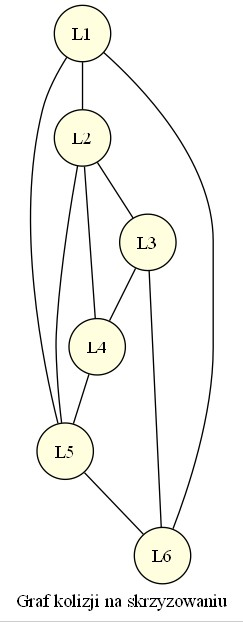
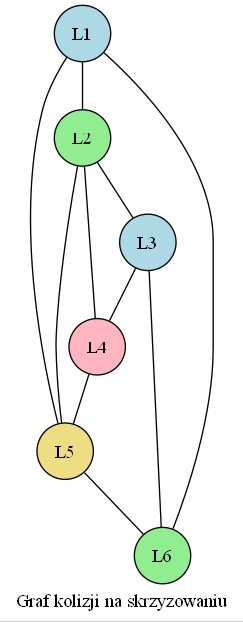
Update benchmark data and improve graph representation
- Adjusted benchmark timings in benchmark_graph.txt for accuracy.
- Enhanced graph representation in graf_cpp.dot by adding self-loops.
- Updated main.cpp to reflect changes in graph structure and added comments for clarity.

diff --git a/Projekt_5_D/main.cpp b/Projekt_5_D/main.cpp
@@ -2,32 +2,110 @@
 #include <vector>
 #include <fstream>
 #include <string>
+#include <algorithm>
 
 class TrafficGraph {
 private:
     int n;
     std::vector<std::vector<int>> adjMatrix;
+    std::vector<int> colors; // kolor/faza dla każdego wierzchołka
 
 public:
-    TrafficGraph(int size) : n(size), adjMatrix(size, std::vector<int>(size, 0)) {}
+    TrafficGraph(int size)
+        : n(size), adjMatrix(size, std::vector<int>(size, 0)), colors(size, -1) {}
 
     // Dodajemy krawędź nieskierowaną (kolizję)
     void addCollision(int u, int v) {
         if (u >= 1 && u <= n && v >= 1 && v <= n) {
-            adjMatrix[u-1][v-1] = 1;
-            adjMatrix[v-1][u-1] = 1;
+            adjMatrix[u - 1][v - 1] = 1;
+            adjMatrix[v - 1][u - 1] = 1;
         }
+    }
+
+    // Zachłanne kolorowanie grafu
+    void colorGraph() {
+        colors.assign(n, -1); //ustawia wszystkie kolory na -1
+        colors[0] = 0; // pierwszy wierzchołek dostaje pierwszy kolor
+
+        //Przygotowanie tablicy dostępnych kolorów
+        std::vector<bool> available(n, true);
+
+        //Iteruje po każdym wierzchołku od 1 do n-1
+        for (int u = 1; u < n; ++u) {
+            //Resetowanie dostępnych kolorów
+            std::fill(available.begin(), available.end(), true);
+
+            //Przechodzi po wszystkich wierzchołkach v
+            for (int v = 0; v < n; ++v) {
+                //czy sa sasiadami i istnieja
+                if (adjMatrix[u][v] == 1 && colors[v] != -1) {
+                    //ten kolor nie jest dostepny
+                    available[colors[v]] = false;
+                }
+            }
+            //szukamy 1 dostepnego koloru
+            int cr;
+            for (cr = 0; cr < n; ++cr) {
+                if (available[cr]) {
+                    break;
+                }
+            }
+
+            colors[u] = cr;
+        }
+    }
+
+    int getNumberOfPhases() const {
+        int maxColor = -1;
+        //Pętla szuka maksymalnego koloru w tablicy colors
+        for (int c : colors) {
+            if (c > maxColor) {
+                maxColor = c;
+            }
+        }
+        //liczba faz = l. kolorow +1
+        return maxColor + 1;
+    }
+
+    void printPhaseAssignments() const {
+        std::cout << "Przypisanie trajektorii do faz:\n";
+        for (int c = 0; c < getNumberOfPhases(); ++c) {
+            std::cout << "Faza " << (c + 1) << ": ";
+            for (int i = 0; i < n; ++i) {
+                if (colors[i] == c) {
+                    std::cout << "L" << (i + 1) << " ";
+                }
+            }
+            std::cout << "\n";
+        }
+    }
+
+    std::string colorName(int color) const {
+        static const std::vector<std::string> names = {
+            "lightblue", "lightgreen", "lightpink", "lightgoldenrod", "orange",
+            "violet", "cyan", "gray", "yellow", "salmon"
+        };
+        if (color >= 0 && color < (int)names.size()) {
+            return names[color];
+        }
+        return "white";
     }
 
     void generateDotFile(const std::string& filename) {
         std::ofstream outFile(filename);
         if (!outFile.is_open()) return;
 
-        // Używamy 'graph' zamiast 'digraph' dla grafu nieskierowanego
         outFile << "graph TrafficLight {\n";
-        outFile << "    node [shape=circle, style=filled, fillcolor=lightyellow];\n";
+        outFile << "    node [shape=circle, style=filled];\n";
         outFile << "    label=\"Graf kolizji na skrzyzowaniu\";\n";
 
+        // Wierzchołki z kolorami
+        for (int i = 0; i < n; ++i) {
+            outFile << "    L" << (i + 1)
+                    << " [fillcolor=\"" << colorName(colors[i]) << "\"];\n";
+        }
+
+        // Krawędzie kolizji
         for (int i = 0; i < n; ++i) {
             for (int j = i + 1; j < n; ++j) {
                 if (adjMatrix[i][j] == 1) {
@@ -35,6 +113,7 @@ public:
                 }
             }
         }
+
         outFile << "}\n";
         outFile.close();
         std::cout << "Wygenerowano plik: " << filename << std::endl;
@@ -44,13 +123,28 @@ public:
 int main() {
     TrafficGraph g(6); // 6 pasów ruchu
 
-    // Definiujemy kolizje zgodnie z analizą rysunku:
-    g.addCollision(1, 2); g.addCollision(1, 5); g.addCollision(1, 6);
-    g.addCollision(2, 3); g.addCollision(2, 4); g.addCollision(2, 5);
-    g.addCollision(3, 4); g.addCollision(3, 6);
+    // Kolizje odczytane z rysunku skrzyżowania
+    g.addCollision(1, 2);
+    g.addCollision(1, 5);
+    g.addCollision(1, 6);
+    g.addCollision(2, 3);
+    g.addCollision(2, 4);
+    g.addCollision(2, 5);
+    g.addCollision(3, 4);
+    g.addCollision(3, 6);
     g.addCollision(4, 5);
     g.addCollision(5, 6);
 
+    // Kolorowanie grafu = przypisanie faz
+    g.colorGraph();
+
+    // Wypisz wynik
+    std::cout << "Liczba faz (zachlannie wyznaczona): "
+              << g.getNumberOfPhases() << "\n\n";
+
+    g.printPhaseAssignments();
+
+    // Zapisz graf do pliku DOT
     g.generateDotFile("skrzyzowanie.dot");
 
     return 0;

diff --git a/Projekt_4_A/main.cpp b/Projekt_4_A/main.cpp
@@ -16,17 +16,19 @@
 // ============================================================
 class GraphMatrix {
 private:
-    std::vector<std::vector<bool>> adj_;   // macierz połączeń
+    std::vector<std::vector<bool>> adj_;   // macierz połączeń , czy jest krawedz
     std::vector<std::vector<int>> edgeValue_; // wartości krawędzi
-    std::vector<bool> active_;             // czy wierzchołek istnieje
+    std::vector<bool> active_;             // czy wierzchołek istnieje (ID)
     std::vector<int> vertexValue_;         // wartości wierzchołków
 
+    //czy ID jest w zakresie tablic
     void validateId(int x) const {
         if (x < 0 || x >= static_cast<int>(active_.size())) {
             throw std::out_of_range("Nieprawidlowy identyfikator wierzcholka");
         }
     }
 
+    //czy wierzcholek istnieje
     void validateActive(int x) const {
         validateId(x);
         if (!active_[x]) {
@@ -38,18 +40,23 @@ public:
     // addVertex(G, x) - dodaje wierzchołek z wartością x
     // Złożoność: O(n) - trzeba rozszerzyć wiersze macierzy
     int addVertex(int value = 0) {
+        //n - liczba wierzcholkow przed dodaniem nowego
         const int n = static_cast<int>(active_.size());
 
+        //kazdy wiersz dodaje nowa kolumne z false (macierz polaczen)
         for (auto& row : adj_) {
             row.push_back(false);
         }
+        //kazdy wiersz dodaje nowa kolumne z 0 (macierz wartosci krawedzi)
         for (auto& row : edgeValue_) {
             row.push_back(0);
         }
 
+        //dodanie nowego wiersza
         adj_.emplace_back(n + 1, false);
         edgeValue_.emplace_back(n + 1, 0);
 
+        //informacje o nowym wierzcholku
         active_.push_back(true);
         vertexValue_.push_back(value);
 
@@ -61,23 +68,29 @@ public:
     void removeVertex(int x) {
         validateActive(x);
 
+        //n - liczba wierzcholkow przed usuniecem
         const int n = static_cast<int>(active_.size());
         for (int i = 0; i < n; ++i) {
+            // czyszczenie wszystkich krawedzi zwiazanych z x
             adj_[x][i] = false;
             adj_[i][x] = false;
             edgeValue_[x][i] = 0;
             edgeValue_[i][x] = 0;
         }
 
+        //oznaczamy wierzcholek x jako usuniety
         active_[x] = false;
+        //czyscimy jego wartosc
         vertexValue_[x] = 0;
     }
 
-    // adjacent(G, x, y) - sprawdza, czy istnieje krawędź
+    // adjacent(G, x, y) - sprawdza, czy istnieje krawędź miedzy wierzcholkami
     // Złożoność: O(1)
     bool adjacent(int x, int y) const {
+        //sprawdza poprawnosc ID
         validateActive(x);
         validateActive(y);
+        //odczytuje komorke macierzy sasiedztwa
         return adj_[x][y];
     }
 
@@ -86,11 +99,13 @@ public:
     std::vector<int> neighbours(int x) const {
         validateActive(x);
 
+        //lista ID sasiadow
         std::vector<int> result;
         result.reserve(active_.size());
 
         const int n = static_cast<int>(active_.size());
         for (int y = 0; y < n; ++y) {
+            //jesli jest aktywny i istnieje krawedz
             if (active_[y] && adj_[x][y]) {
                 result.push_back(y);
             }
@@ -222,6 +237,7 @@ void benchmarkNeighbours(const std::string& filename) {
     std::cout << "=== Benchmark neighbours(G, x) -> " << filename << " ===\n";
 
     const int REPS = 300;
+    //np.4096 dla wiekszej ilosci punktow
     const int N_MAX = 2048;
 
     std::vector<int> sizes;

diff --git a/Projekt_5_B/main.cpp b/Projekt_5_B/main.cpp
@@ -9,16 +9,26 @@ class Graph {
 private:
     // Używamy mapy, aby obsłużyć wierzchołki o dowolnych nazwach (string)
     std::map<std::string, std::set<std::string>> adjList;
+    /*
+    To lista sąsiedztwa grafu:
+    klucz std::string = nazwa wierzchołka,
+    wartość std::set<std::string> = zbiór jego sąsiadów.
+    Czyli np.:
+    "A" -> {"B", "C"}
+    "B" -> {"A", "C"}
+    */
 
 public:
     // Metoda dodająca krawędź skierowaną
     void addEdge(std::string u, std::string v) {
+        //Dodaje v do zbioru sąsiadów wierzchołka u.
         adjList[u].insert(v);
         // Jeśli graf miałby być nieskierowany, dodalibyśmy: adjList[v].insert(u);
     }
 
     // Metoda generująca plik .dot
     void generateDotFile(const std::string& filename) {
+        //Metoda zapisuje graf do pliku o nazwie filename.
         std::ofstream outFile(filename);
 
         if (!outFile.is_open()) {
@@ -36,6 +46,7 @@ public:
                 outFile << "    \"" << node << "\";\n";
             }
 
+            //Przechodzi po wszystkich sąsiadach aktualnego wierzchołka.
             for (const std::string& neighbor : neighbors) {
                 outFile << "    \"" << node << "\" -> \"" << neighbor << "\";\n";
             }
@@ -53,12 +64,12 @@ int main() {
     Graph g;
 
     // Tworzymy graf z zadania: 3 wierzchołki, połączenia w obie strony
-    g.addEdge("A", "B");
+    g.addEdge("A", "A");
     g.addEdge("B", "A");
-    g.addEdge("A", "C");
+    g.addEdge("A", "B");
     g.addEdge("C", "A");
     g.addEdge("B", "C");
-    g.addEdge("C", "B");
+    g.addEdge("C", "C");
 
     // Generujemy plik wejściowy dla Graphviz
     g.generateDotFile("graf_cpp.dot");